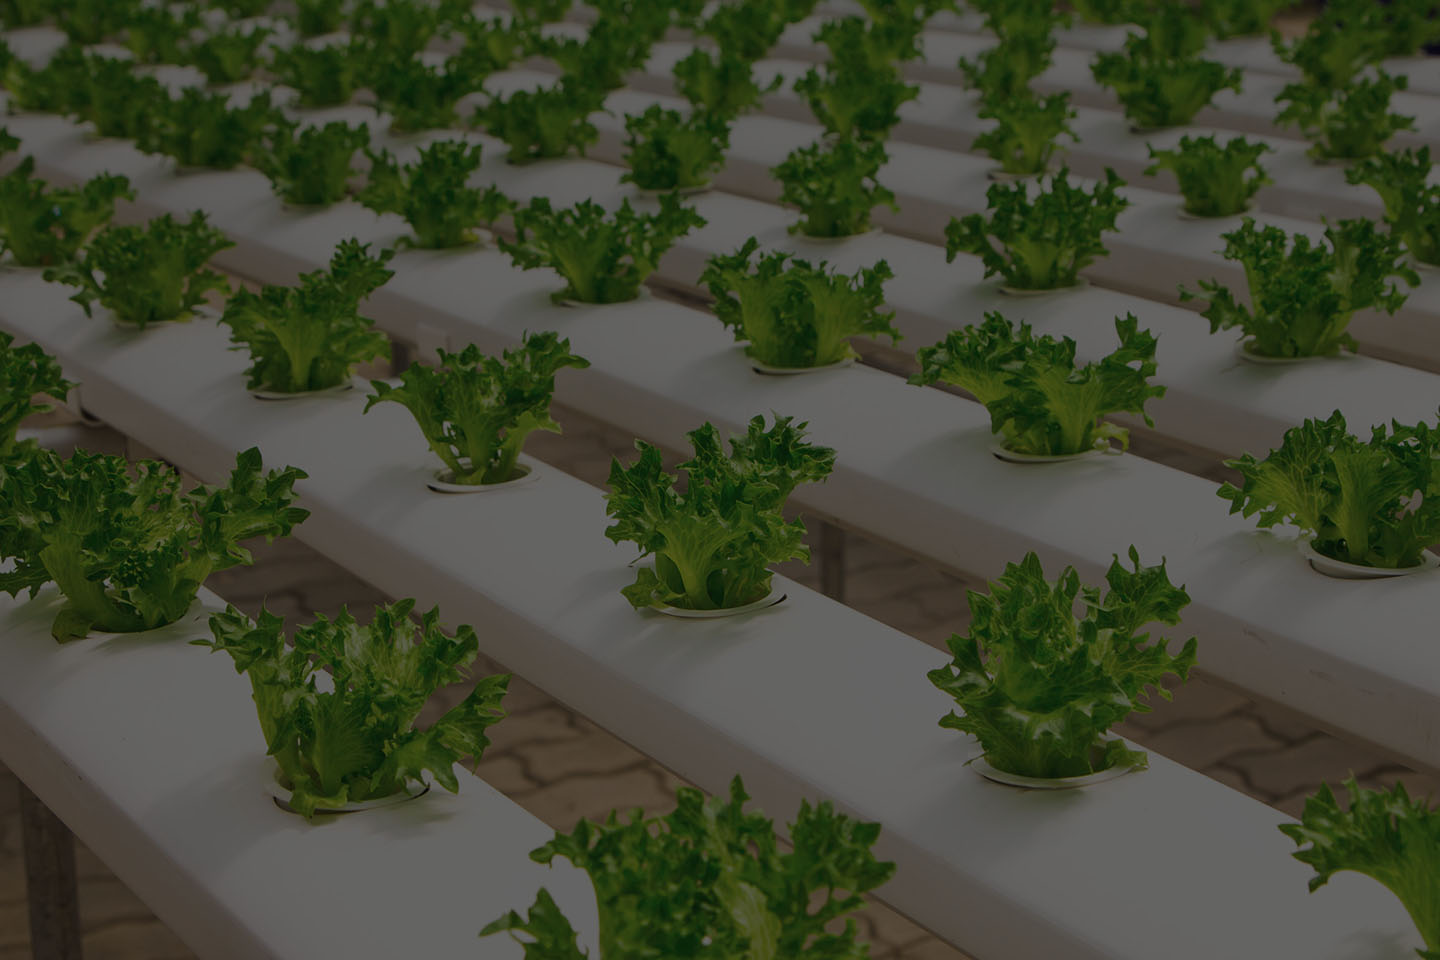
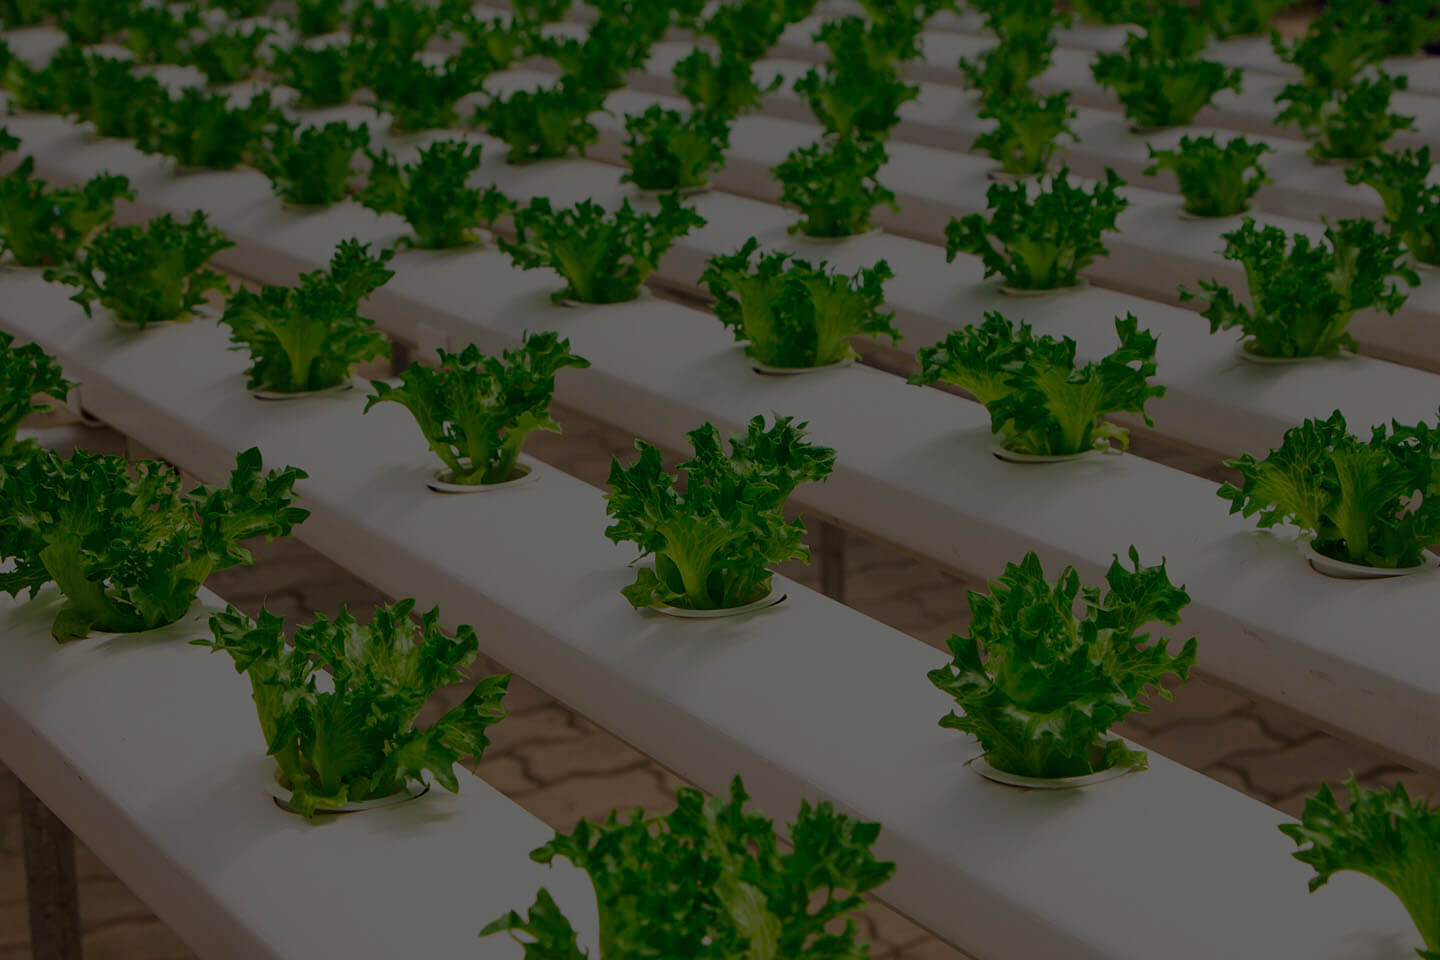
Compresión de imágenes, cambio de título de páginas y detalles extra de textos

diff --git a/assets/css/desktop.css b/assets/css/desktop.css
@@ -86,7 +86,7 @@ header .navbar {
   transition: ease 0.3s all;
 }
 .navbar_list_item.navbar_item .activeSection {
-  text-decoration: underline;
+  /* text-decoration: underline; */
   border-bottom: none;
 }
 .navbar_list .navbar_list_item.navbar_item.navbar_submenu_parent .navbar_submenu {

diff --git a/index.php b/index.php
@@ -42,7 +42,7 @@
         <div class="category_description category_1">
           <div class="category_description_info">
             <h2>1 -</h2>
-            <h3>Insumos para invernadero</h3>
+            <h3>Insumos: Agricultura Protegida</h3>
             <p>Lorem, ipsum dolor sit amet consectetur adipisicing elit. Optio eveniet vitae tempora amet distinctio temporibus similique aliquam recusandae a sunt earum minima illo vel iure aut rem cupiditate, culpa fugit!</p>
             <div class="button-border button-border-1">
               <a href="./agricultura-protegida" class="category_description_button description_button_1">Ver catálogo</a>
@@ -54,7 +54,7 @@
           <div class="category_description_info">
             <div class="category_description_info_text">
               <h2>2 -</h2>
-              <h3>Sistemas de riego y accesorios</h3>
+              <h3>Insumos: Campo Abierto</h3>
               <p>Lorem, ipsum dolor sit amet consectetur adipisicing elit. Optio eveniet vitae tempora amet distinctio temporibus similique aliquam recusandae a sunt earum minima illo vel iure aut rem cupiditate, culpa fugit!</p>
               <div class="button-border button-border-2">
                 <a href="./campo-abierto" class="category_description_button description_button_2">Ver catálogo</a>
@@ -66,7 +66,7 @@
         <div class="category_description category_3">
           <div class="category_description_info">
             <h2>3 -</h2>
-            <h3>Tractores y maquinaria agrícola</h3>
+            <h3>Venta y renta de montacargas</h3>
             <p>Lorem, ipsum dolor sit amet consectetur adipisicing elit. Optio eveniet vitae tempora amet distinctio temporibus similique aliquam recusandae a sunt earum minima illo vel iure aut rem cupiditate, culpa fugit!</p>
             <div class="button-border button-border-3">
               <a href="./montacargas" class="category_description_button description_button_3">Ver catálogo</a>

diff --git a/header-values.php b/header-values.php
@@ -7,13 +7,13 @@ $ruta;
 /**
  * Page title
  */
-$inicio = 'Invergrow | Soluciones agrícolas';
-$contacto = 'Contacto - Invergrow | Soluciones agrícolas';
-$agricultura = 'Insumos: Agricultura Protegida | Invergeow - Soluciones Agrícolas';
-$campo = 'Insumos: Campo Abierto | Invergeow - Soluciones Agrícolas';
-$montacargas = 'Venta y renta de montacargas | Soluciones agrícolas';
+$inicio = 'Invergrow | Soluciones Agrícolas';
+$contacto = 'Contacto - Invergrow | Soluciones Agrícolas';
+$agricultura = 'Insumos: Agricultura Protegida - Invergrow | Soluciones Agrícolas';
+$campo = 'Insumos: Campo Abierto - Invergrow | Soluciones Agrícolas';
+$montacargas = 'Venta y renta de montacargas - Invergrow | Soluciones Agrícolas';
 $error404 = 'Error 404';
-$politicas = 'Políticas de privacidad | Invergeow - Soluciones Agrícolas';
+$politicas = 'Políticas de privacidad - Invergrow | Soluciones Agrícolas';
 
 /**
  * Page description
